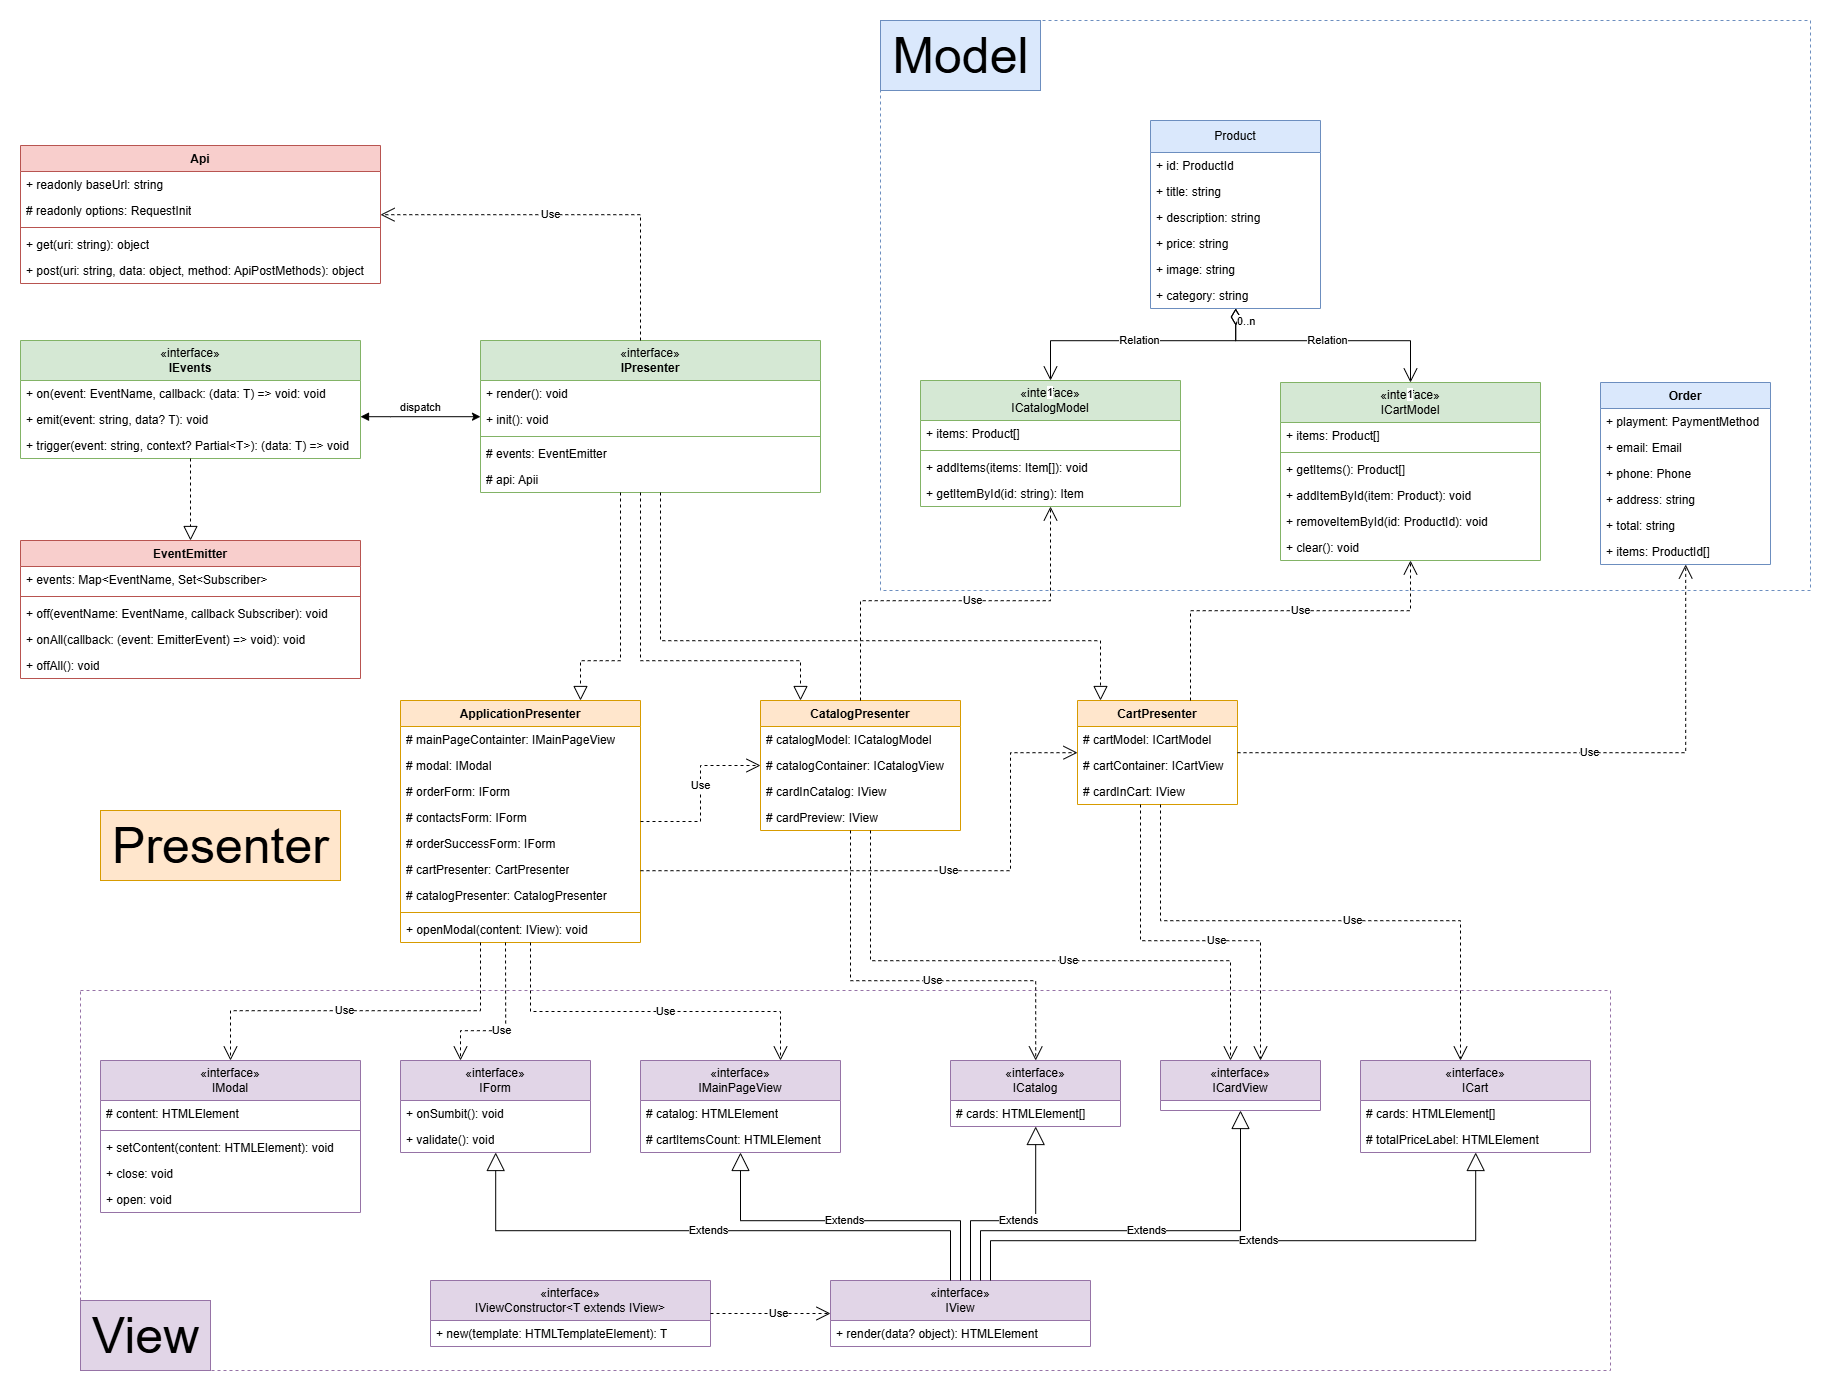
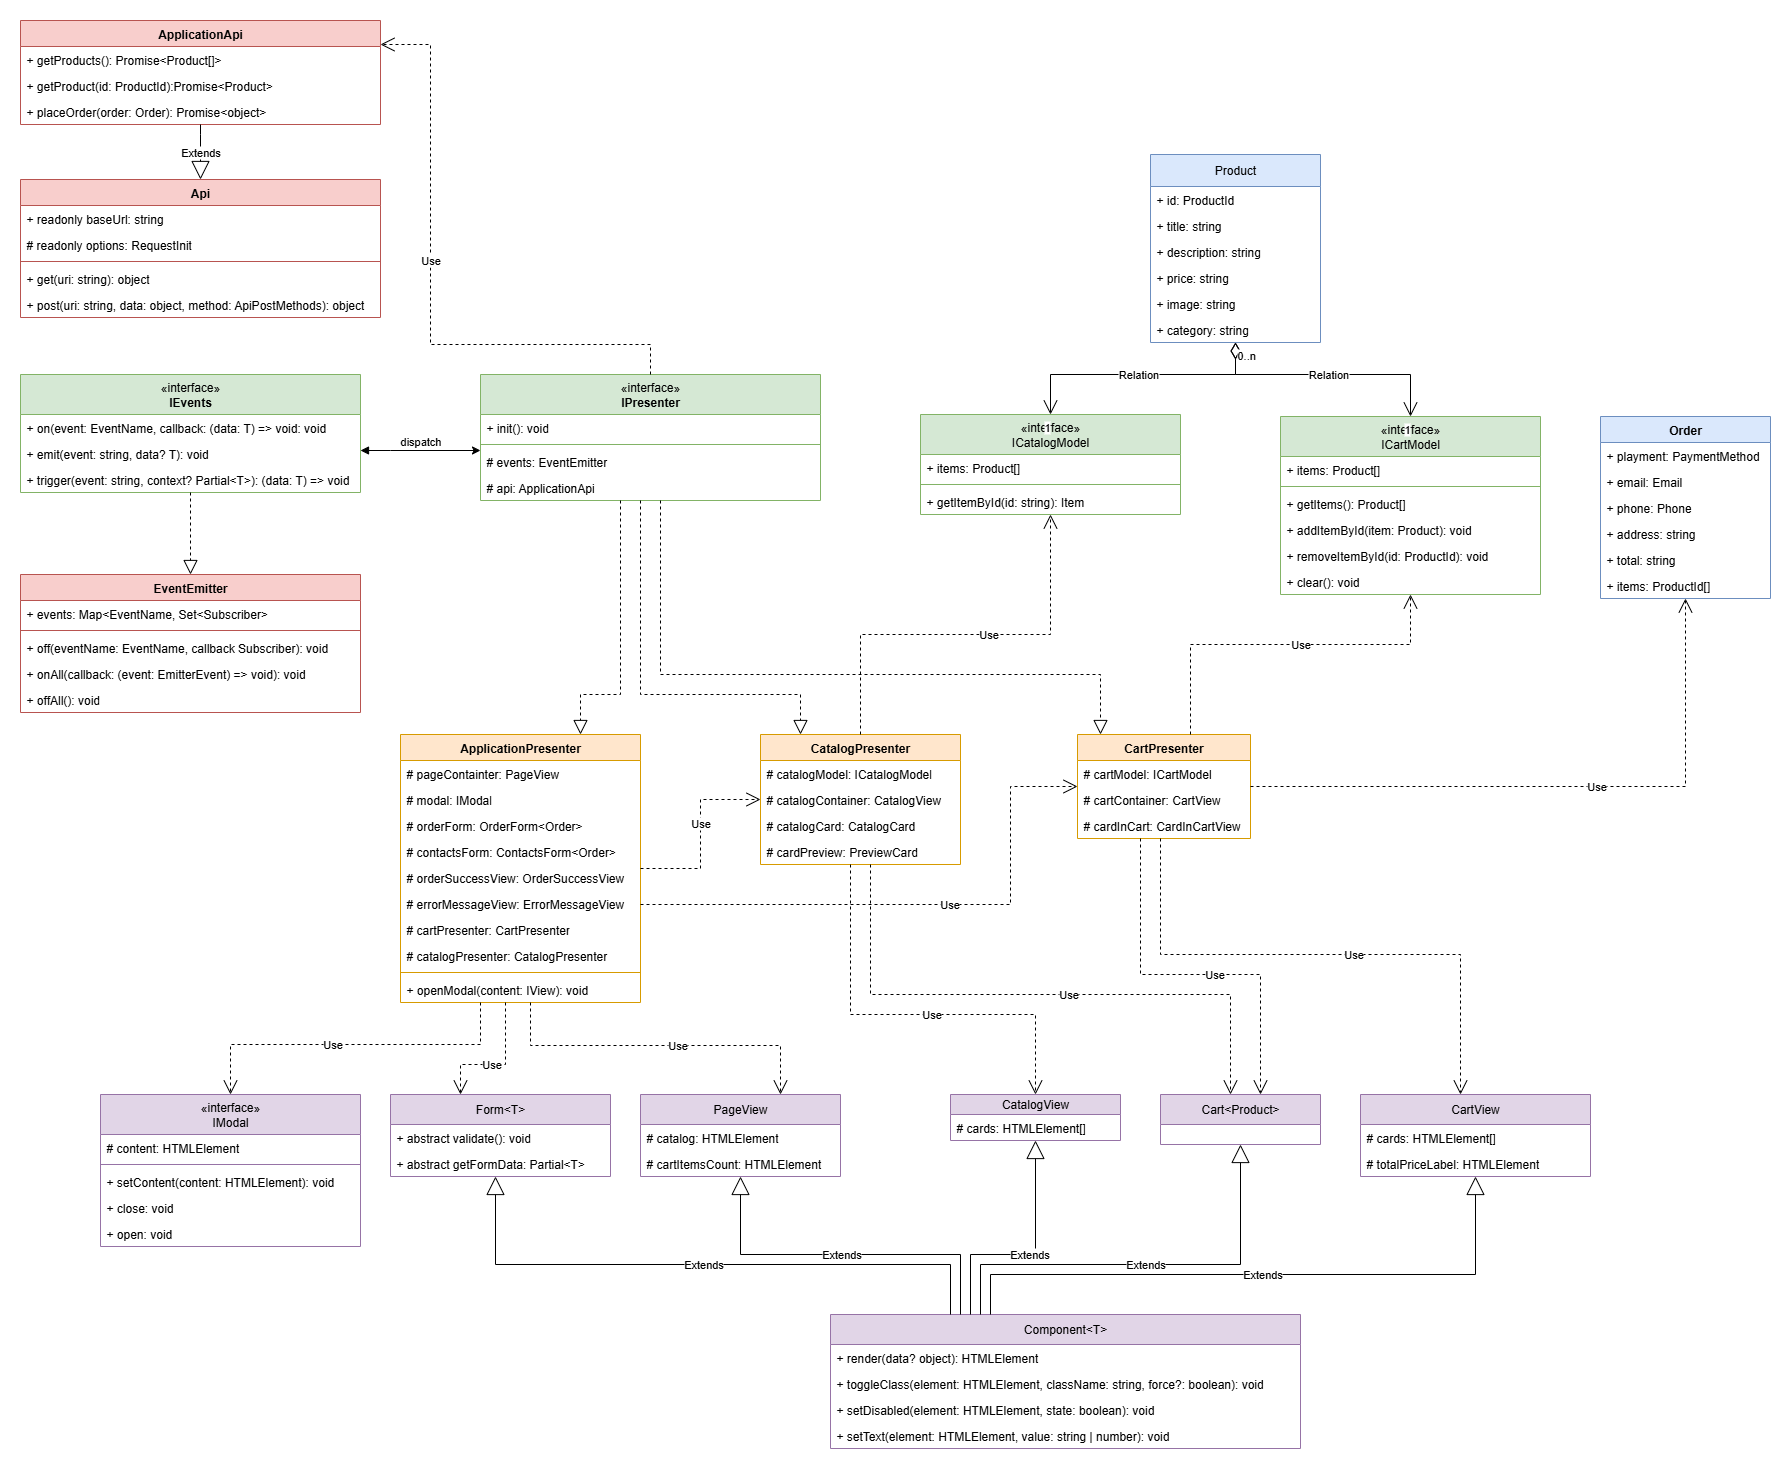
doc: actualize readme

diff --git a/src/components/base/Component.ts b/src/components/base/Component.ts
@@ -6,11 +6,11 @@ export abstract class Component<T> {
 		element.textContent = String(value);
 	}
 
-	protected toggleClass(element: HTMLElement, className: string, force?: boolean) {
+	protected toggleClass(element: HTMLElement, className: string, force?: boolean): void {
 		element.classList.toggle(className, force);
 	}
 
-	protected setDisabled(element: HTMLElement, state: boolean) {
+	protected setDisabled(element: HTMLElement, state: boolean): void {
 		if (state) {
 			element.setAttribute('disabled', 'disabled');
 		} else {

diff --git a/README.md b/README.md
@@ -88,6 +88,9 @@ yarn build
   основном контейнер (обертку) представления.
 * `render(data?: Partial<T>): HTMLElement` - метод отрисовки представления, позволяющий при наличии у компонента
   правильных setter`ов автоматически согласовать поля между объектом с частичными данными Partial<T> и html-элементами.
+* `setText(element: HTMLElement, value: string | number): void` - установить текст элементу. 
+* `toggleClass(element: HTMLElement, className: string, force?: boolean): void` - переключить класс элемента.
+* `setDisabled(element: HTMLElement, state: boolean): void` - включить или отключить элемент.
 
 `Presenter` - абстрактный класс presenter с набором базовых абстрактных методов и конструктора.
 
